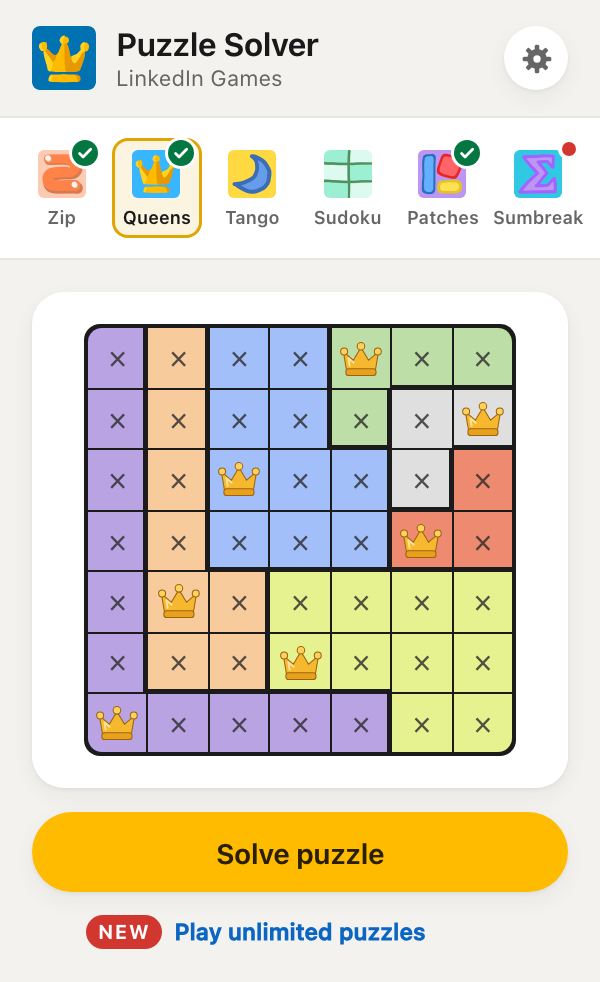
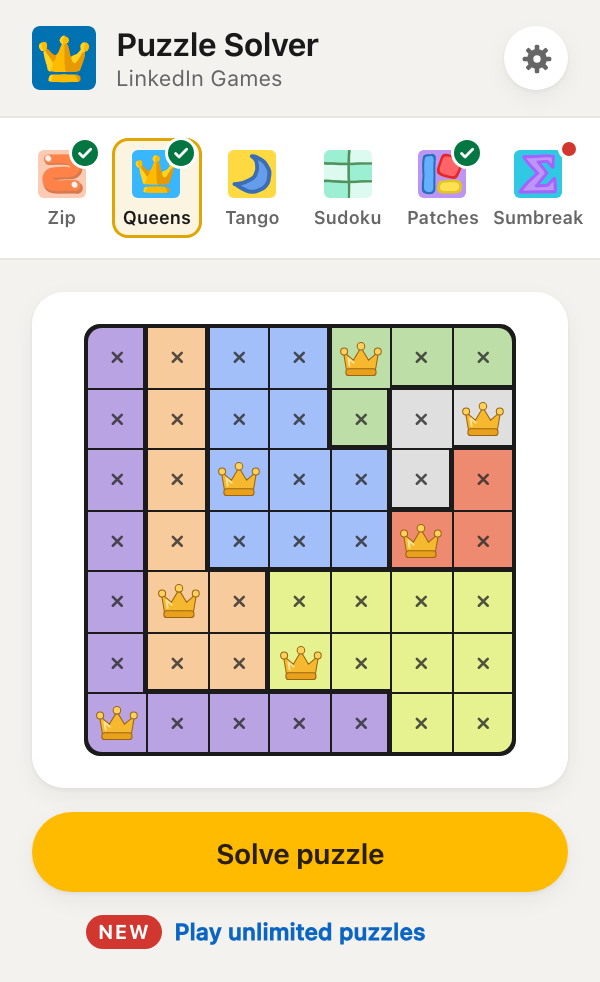
Puzzle Solver: open games in active tab, center Queens crosses, and harden Solve all

diff --git a/Puzzle_Solver/popup.js b/Puzzle_Solver/popup.js
@@ -83,7 +83,7 @@ const STATES = {
 };
 
 let state = "checking";
-const openedAt = Date.now();
+let openedAt = Date.now();
 
 const resolve = (v, d) => (typeof v === "function" ? v(d) : v);
 
@@ -197,10 +197,38 @@ for (const link of [hintLink, siteLink]) {
 
 /* ------------------------------------------------------- strip and game list */
 
-function openGame(g) {
+async function openGame(g) {
   markGameSeen(g);
+  const tab = await getActiveTab().catch(() => null);
+  if (tab && tab.id != null) {
+    try {
+      await chrome.tabs.update(tab.id, { url: gameUrl(g) });
+      showGame(g);
+      return;
+    } catch {
+      /* privileged tab — fall back to a new tab */
+    }
+  }
   chrome.tabs.create({ url: gameUrl(g) });
   window.close();
+}
+
+/** Switch the popup to `g`'s board view and start polling its tab. */
+function showGame(g) {
+  stopPolling();
+  watchingAuto = false;
+  openedAt = Date.now();
+  game = g;
+  document.documentElement.dataset.game = g.id;
+  siteLink.href = siteUrl("menu", null, game);
+  markGameSeen(game);
+  buildSettings();
+  buildStrip();
+  preview = makePreview(game.id, boardEl);
+  if (preview) preview.renderPlaceholder();
+  setState("checking");
+  refresh();
+  pollTimer = setInterval(refresh, POLL_MS);
 }
 
 /** The row of games under the header, on a game page. The tab's game is marked. */
@@ -743,24 +771,26 @@ function showAutoSolve(auto, boardSolved, data) {
 
 /** Detect a board; move to `ready` only when one is present & solvable. */
 async function refresh() {
-  if (superseded()) return;
-  const autoSolve = settings[game.id].autosolve;
+  if (!game || superseded()) return;
+  const forGame = game;
+  const autoSolve = settings[forGame.id].autosolve;
 
   // Following a solve in the page, or holding a found board while Auto-solve is due
   // to start on it: only the marker can move things on from here, and reading it is
   // far cheaper than a detect.
   if (watchingAuto || (state === "ready" && autoSolve)) {
     const auto = await readAutoSolve();
-    if (superseded()) return;
+    if (game !== forGame || superseded()) return;
     if (watchingAuto ? auto && auto.state === "solving" : !auto) return;
   }
 
   const results = await runInFrames("detect");
+  if (game !== forGame) return;
   const board = results.find((r) => r.solvable);
 
   if (board) {
     const auto = await readAutoSolve();
-    if (superseded()) return;
+    if (game !== forGame || superseded()) return;
     // Draw before switching state: the board element is revealed by the state
     // change, so filling it first avoids a frame of empty grid.
     if (preview) preview.renderBoard(board);
@@ -795,16 +825,20 @@ async function refresh() {
  * so the timer and result handling live in one place.
  */
 async function runSolve() {
+  if (!game) return;
+  const forGame = game;
   stopPolling();
   setState("solving");
   startTimer();
 
-  const results = await runInFrames("solve", { targetMs: settings[game.id].targetMs });
+  const results = await runInFrames("solve", { targetMs: settings[forGame.id].targetMs });
+  if (game !== forGame) return;
 
   // Another solve already holds this board — usually content.js's auto-solve,
   // started between our last poll and the click. Follow it instead.
   if (results.some((r) => r.busy)) {
     const auto = await readAutoSolve();
+    if (game !== forGame) return;
     watchingAuto = true;
     if (auto) timerStart = performance.now() - (Date.now() - auto.startedAt);
     pollTimer = setInterval(refresh, POLL_MS);
@@ -831,8 +865,7 @@ async function runSolve() {
 actionBtn.addEventListener("click", () => {
   const act = STATES[state].act;
   if (act === "open") {
-    chrome.tabs.create({ url: gameUrl(game) });
-    window.close();
+    openGame(game);
     return;
   }
   if (act === "solve") runSolve();
@@ -845,11 +878,6 @@ async function init() {
   loadSettings();
   siteLink.href = siteUrl("menu", null, game);
 
-  const tab = await getActiveTab().catch(() => null);
-  game = gameForUrl(tab && tab.url);
-  document.documentElement.dataset.game = game ? game.id : "";
-  siteLink.href = siteUrl("menu", null, game);
-  buildSettings();
   // An incognito window's popup reads incognito's own solved days (see games.js).
   try {
     setIncognito((await chrome.windows.getCurrent()).incognito);
@@ -858,22 +886,18 @@ async function init() {
   }
   await loadSolved(true);
 
-  if (!game) {
+  const tab = await getActiveTab().catch(() => null);
+  const g = gameForUrl(tab && tab.url);
+  if (!g) {
+    document.documentElement.dataset.game = "";
+    buildSettings();
     buildList();
     renderSolveAll();
     setState("list");
     return;
   }
 
-  markGameSeen(game);
-  buildStrip();
-  preview = makePreview(game.id, boardEl);
-  // Draw the empty grid before the first paint so the popup opens as a board rather
-  // than snapping into one a moment later.
-  if (preview) preview.renderPlaceholder();
-  setState("checking");
-  refresh();
-  pollTimer = setInterval(refresh, POLL_MS);
+  showGame(g);
 }
 
 init();

diff --git a/Puzzle_Solver/background.js b/Puzzle_Solver/background.js
@@ -102,18 +102,27 @@ async function startRun(ids, tabId) {
   if (existing) return existing;
   const queue = ids.filter((id) => GAME_BY_ID[id]);
   if (!queue.length) return null;
+  const makeBlankTab = async () => (await chrome.tabs.create({ url: "about:blank", active: true })).id;
   if (tabId == null) {
     // Open the tab blank and store the run before loading the games page, so
     // nothing in it can report before the run exists.
-    tabId = (await chrome.tabs.create({ url: "about:blank", active: true })).id;
+    tabId = await makeBlankTab();
   }
-  const run = { tabId, phase: "hub", queue, index: 0, started: false, solved: [] };
+  let run = { tabId, phase: "hub", queue, index: 0, started: false, solved: [] };
   await setRun(run);
   try {
     await chrome.tabs.update(tabId, { url: HUB_URL });
   } catch {
-    await setRun(null);
-    return null;
+    // A privileged tab (chrome://, the web store) can't be navigated: fall back
+    // to a fresh tab so Solve all still works from there.
+    try {
+      run = { ...run, tabId: await makeBlankTab() };
+      await setRun(run);
+      await chrome.tabs.update(run.tabId, { url: HUB_URL });
+    } catch {
+      await setRun(null);
+      return null;
+    }
   }
   return run;
 }
@@ -144,11 +153,13 @@ async function openCurrent(run) {
 /**
  * The games page reported while the run was on a game: LinkedIn sent the game's
  * URL back there (a signed-out visit with ?skipStartScreen=true does that). Try the
- * game once more by its plain URL, then give up on it and move on.
+ * game once more by its plain URL (and keep skipStart off for the rest of the run),
+ * then give up on it and move on.
  */
 async function bouncedToHub(run) {
-  if (!run.retried) {
-    const next = { ...run, retried: true, started: false };
+  if (run.started) return;
+  if (run.skipStart && !run.retried) {
+    const next = { ...run, skipStart: false, retried: true, started: false };
     await setRun(next);
     await openCurrent(next);
   } else {

diff --git a/Puzzle_Solver/games/queens/preview.js b/Puzzle_Solver/games/queens/preview.js
@@ -41,6 +41,17 @@ registerPreview("queens", (boardEl) => {
     return svg;
   }
 
+  function crossSvg() {
+    const svg = document.createElementNS(SVG_NS, "svg");
+    svg.setAttribute("viewBox", "0 0 24 24");
+    svg.setAttribute("aria-hidden", "true");
+    svg.setAttribute("class", "board__x");
+    const path = document.createElementNS(SVG_NS, "path");
+    path.setAttribute("d", "M8.5 8.5l7 7M15.5 8.5l-7 7");
+    svg.appendChild(path);
+    return svg;
+  }
+
   // Queens boards vary in size, so the empty grid just uses the most common one.
   // It's a placeholder, and renderBoard resizes to the real N the moment we know it.
   const DEFAULT_N = 8;
@@ -111,19 +122,13 @@ registerPreview("queens", (boardEl) => {
       const corner = cornerClass(c.row, c.col, N);
       if (corner) cell.classList.add(corner);
       if (c.state === "queen") cell.classList.add("board__cell--queen");
-      if (c.state === "cross") cell.classList.add("board__cell--cross");
       cell.style.background = usePageColors
         ? c.color
         : fallbackColor(regions.indexOf(c.region), regions.length);
       if (c.state === "queen") cell.appendChild(queenSvg());
       // As LinkedIn shows a finished board: every other cell crossed out, and a
       // thick line wherever two regions meet.
-      else {
-        const x = document.createElement("span");
-        x.className = "board__x";
-        x.textContent = "×";
-        cell.appendChild(x);
-      }
+      else cell.appendChild(crossSvg());
       const regionAt = (r, col) => {
         const n = ordered[r * N + col];
         return n && n.row === r && n.col === col ? n.region : null;

diff --git a/Puzzle_Solver/hub.js b/Puzzle_Solver/hub.js
@@ -52,13 +52,7 @@
     const found = [];
     signedIn = false;
     for (const a of document.querySelectorAll('a[href*="/games/"]')) {
-      let path;
-      try {
-        path = new URL(a.getAttribute("href"), location.href).pathname;
-      } catch {
-        continue;
-      }
-      const g = GAMES.find((x) => path.replace(/\/+$/, "") === `/games/${x.path}`);
+      const g = gameForUrl(a.href);
       if (!g || found.some((f) => f.id === g.id)) continue;
       // Signed in, the art is img.ps-game-entrypoint-card__bg-img ("Zip graphic");
       // signed out, img.game-entrypoint-card__bg-img ("Zip"). Both end the same.

diff --git a/Puzzle_Solver/games/looks.css b/Puzzle_Solver/games/looks.css
@@ -98,11 +98,14 @@
   stroke-linejoin: round;
 }
 
-:root[data-game="queens"] .board__x {
-  color: #2b2b2b;
-  font-size: calc(110px / var(--n, 8));
-  font-weight: 400;
-  line-height: 1;
+:root[data-game="queens"] .board__cell svg.board__x {
+  display: block;
+  width: 52%;
+  height: 52%;
+  fill: none;
+  stroke: #2b2b2b;
+  stroke-width: 2;
+  stroke-linecap: round;
   opacity: 0.8;
 }
 
